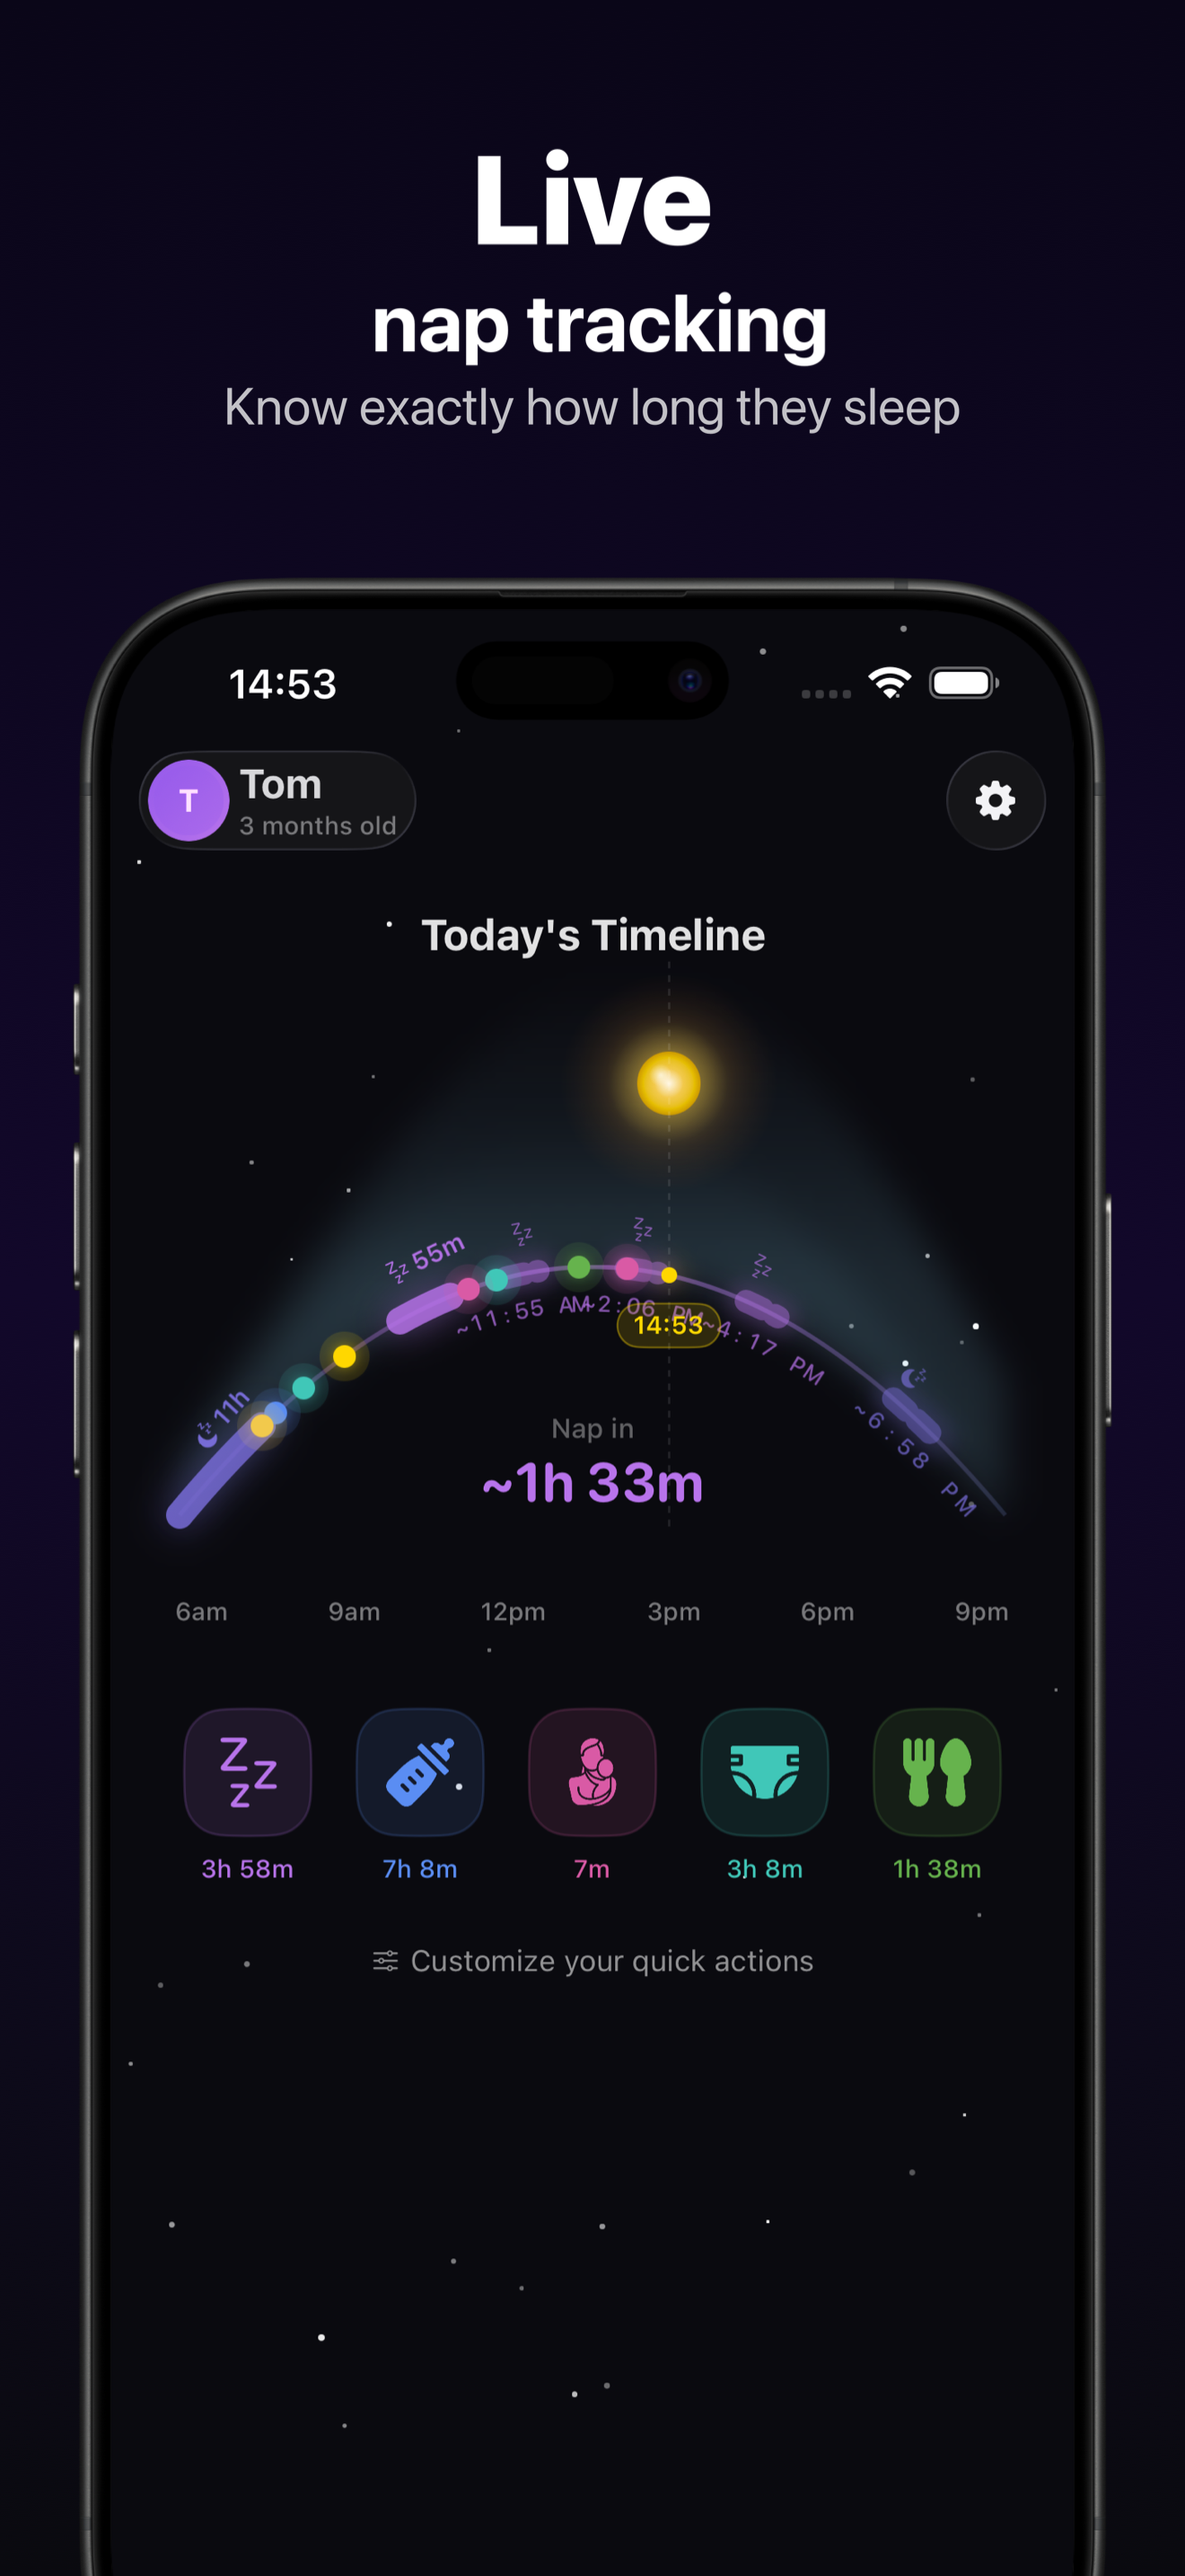
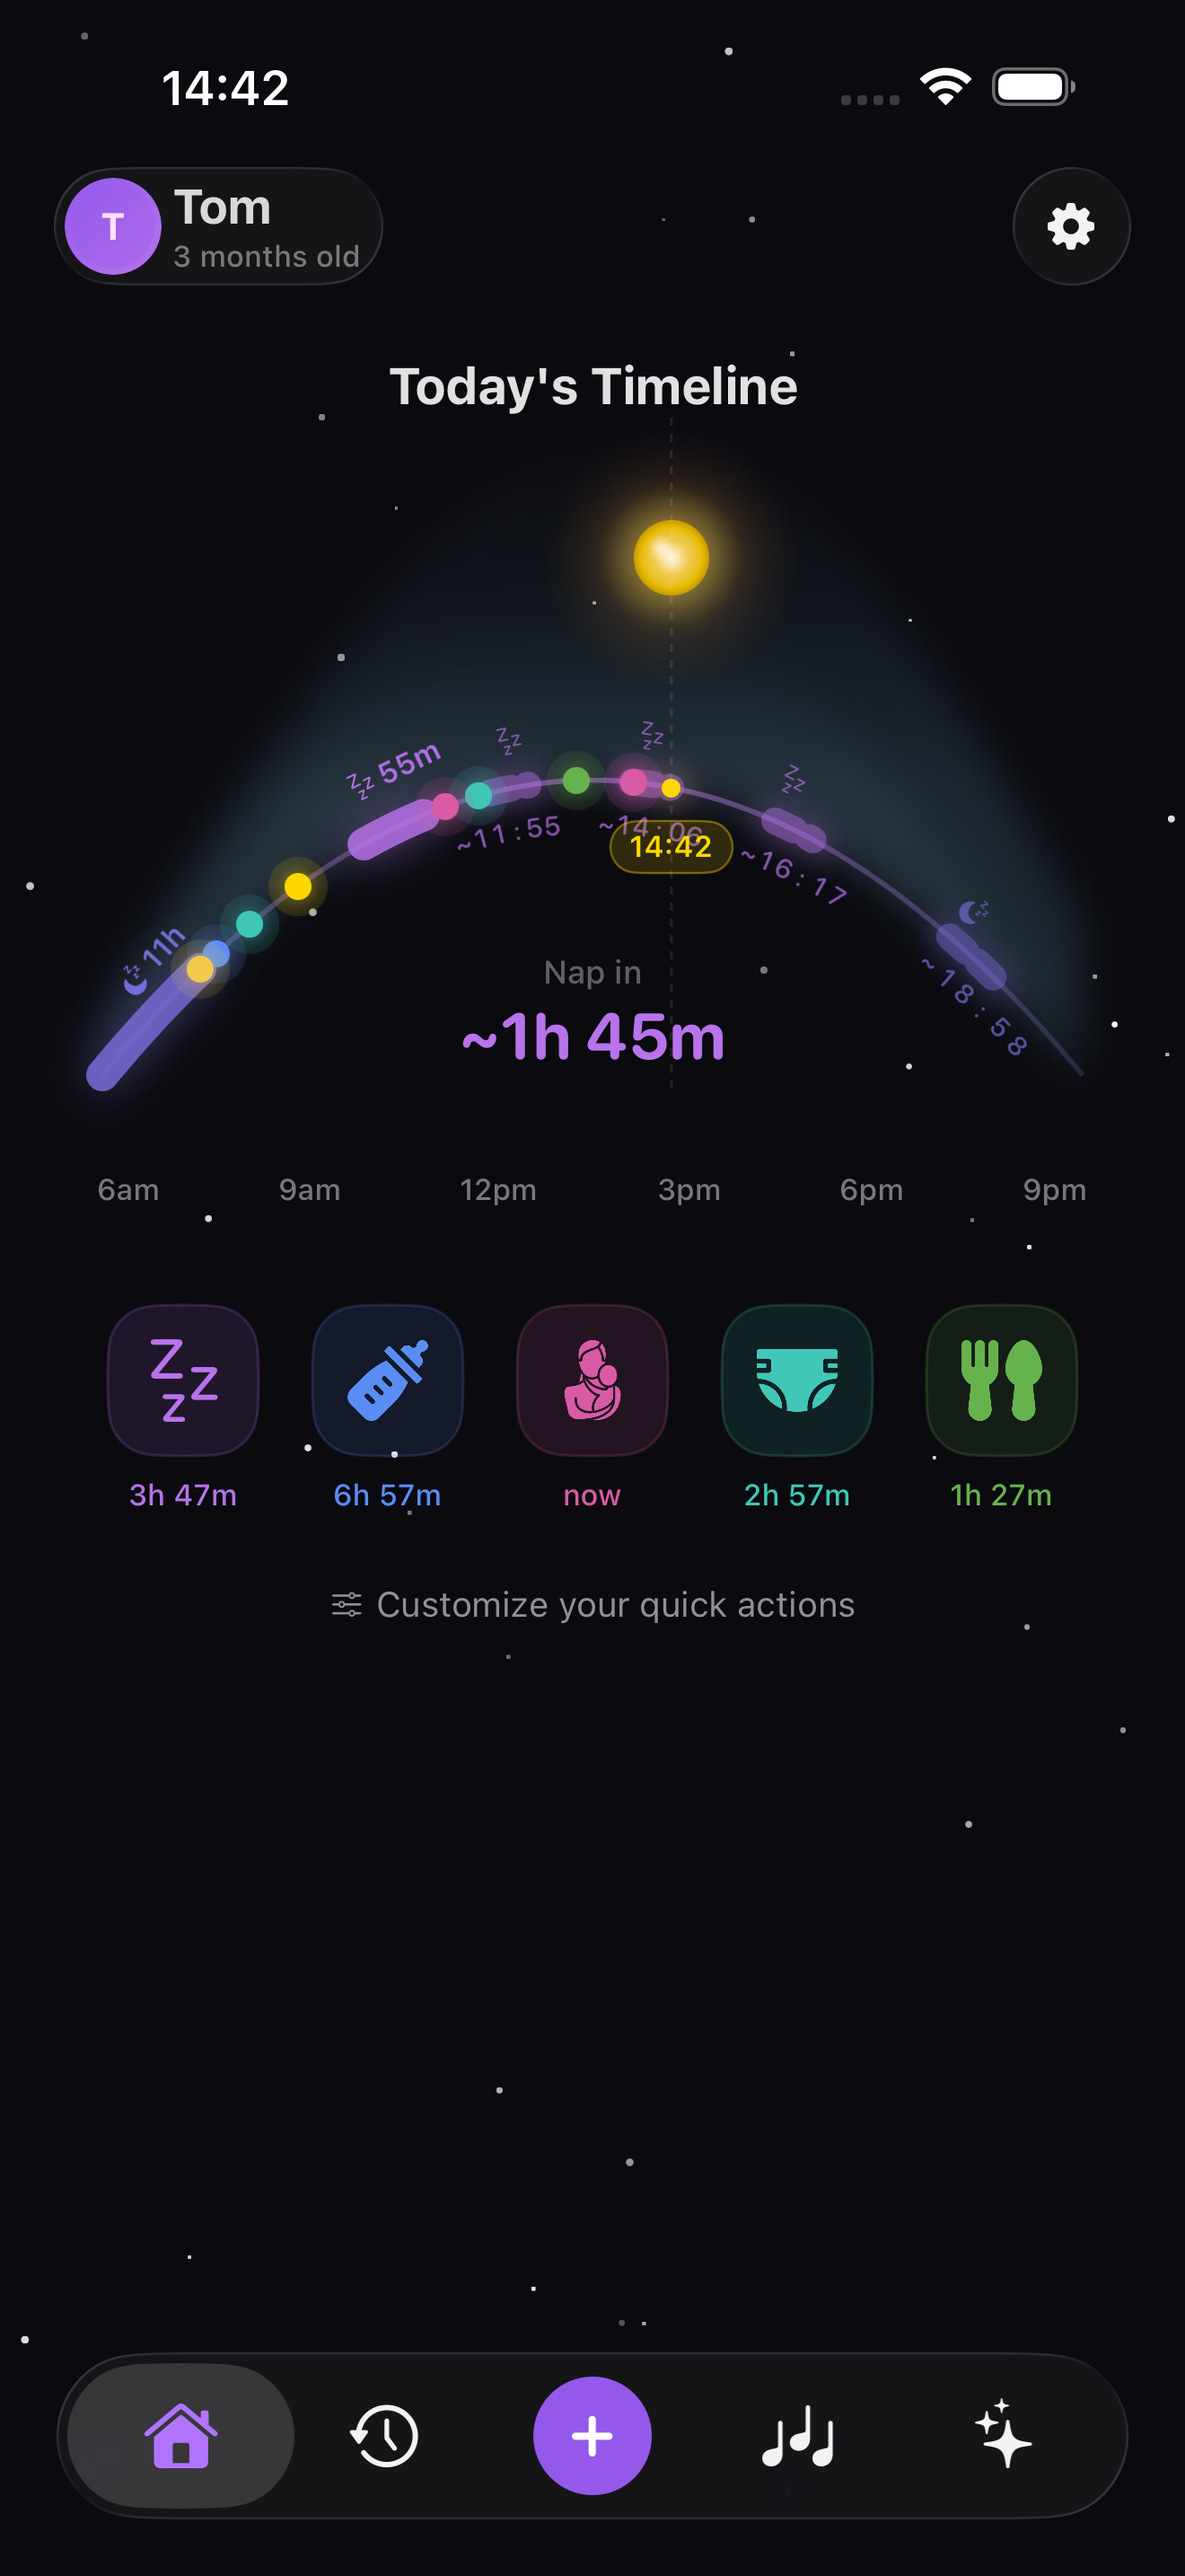
Update Zuzu screenshots, remove video, add back navigation
- Replace raw en-US screenshots with updated versions
- Remove promo video embed from Media Kit section
- Add back link to MagicLabSolutions homepage in nav

diff --git a/zuzu/index.html b/zuzu/index.html
@@ -256,6 +256,22 @@ permalink: /zuzu/
             padding: 0 24px;
         }
 
+        .nav-back {
+            display: flex;
+            align-items: center;
+            gap: 4px;
+            text-decoration: none;
+            color: rgba(226, 232, 240, 0.5);
+            font-size: 0.8rem;
+            font-weight: 500;
+            margin-right: 16px;
+            transition: color 0.2s ease;
+        }
+
+        .nav-back:hover {
+            color: #A78BFA;
+        }
+
         .nav-logo {
             display: flex;
             align-items: center;
@@ -1178,6 +1194,10 @@ permalink: /zuzu/
          ======================================== -->
     <nav>
         <div class="nav-inner">
+            <a href="/" class="nav-back" title="Back to Magic Lab Solutions">
+                <svg width="16" height="16" viewBox="0 0 24 24" fill="none" stroke="currentColor" stroke-width="2" stroke-linecap="round" stroke-linejoin="round"><polyline points="15 18 9 12 15 6"/></svg>
+                MLS
+            </a>
             <a href="#" class="nav-logo">
                 <div class="nav-logo-icon">
                     <svg width="20" height="20" viewBox="0 0 24 24" fill="none" stroke="white" stroke-width="2" stroke-linecap="round" stroke-linejoin="round">
@@ -1506,16 +1526,7 @@ permalink: /zuzu/
             <div class="media-header">
                 <div class="section-label">Media Kit</div>
                 <h2 class="section-title">Promo <span class="gradient-text">materials</span></h2>
-                <p class="section-subtitle">App walkthrough video, pitch deck, and ready-to-use social media assets.</p>
-            </div>
-
-            <!-- Promo Video -->
-            <div class="media-video-wrapper" style="max-width:280px;">
-                <video controls playsinline preload="metadata" style="display:block; width:100%; max-height:560px; border-radius:20px; background:#000; box-shadow: 0 25px 60px rgba(0,0,0,0.5); object-fit:cover;">
-                    <source src="promo-video.mp4#t=8" type="video/mp4">
-                    Your browser does not support the video tag.
-                </video>
-                <div class="media-video-label">App walkthrough -- 2 minutes</div>
+                <p class="section-subtitle">Pitch deck and ready-to-use social media assets.</p>
             </div>
 
             <!-- Asset Cards -->
